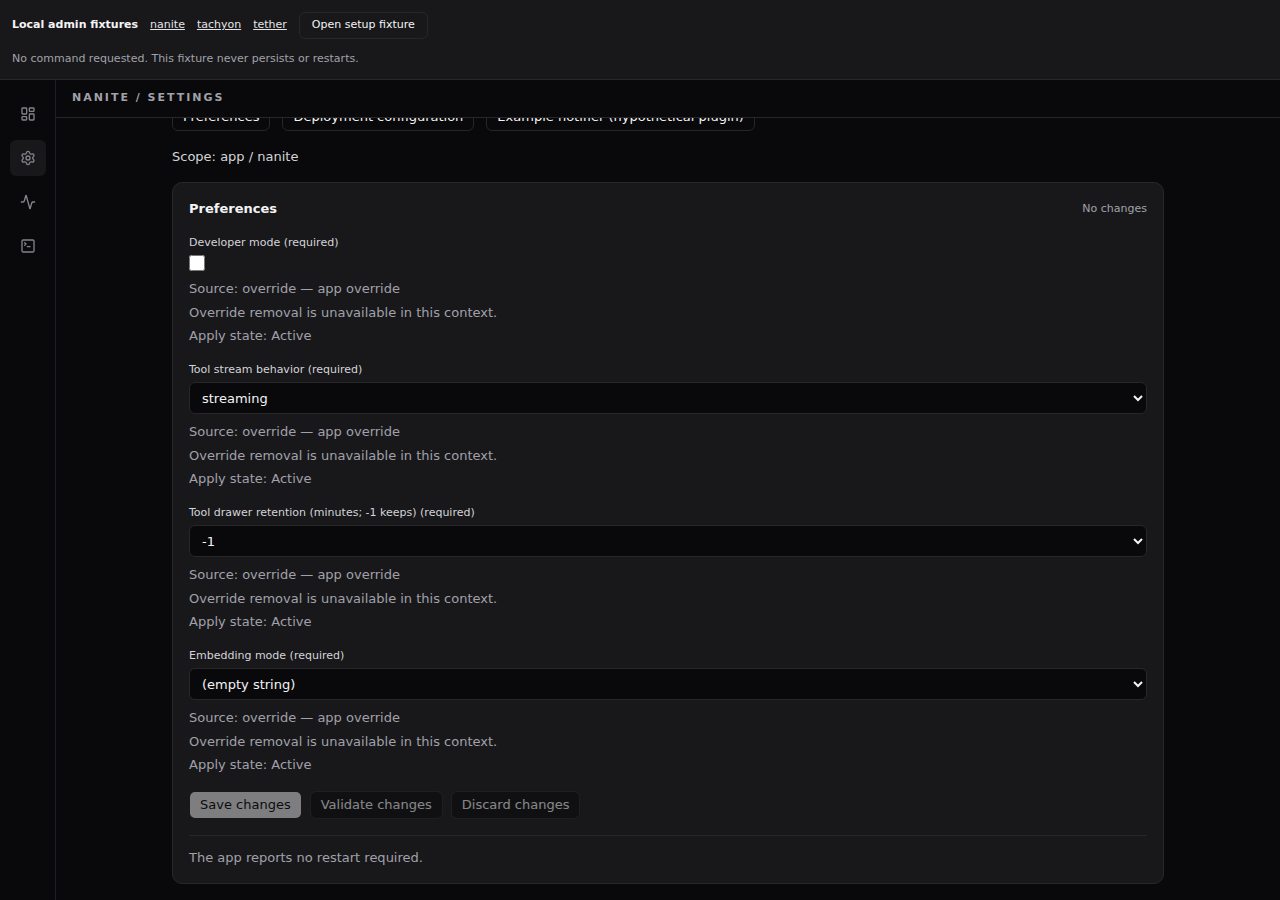
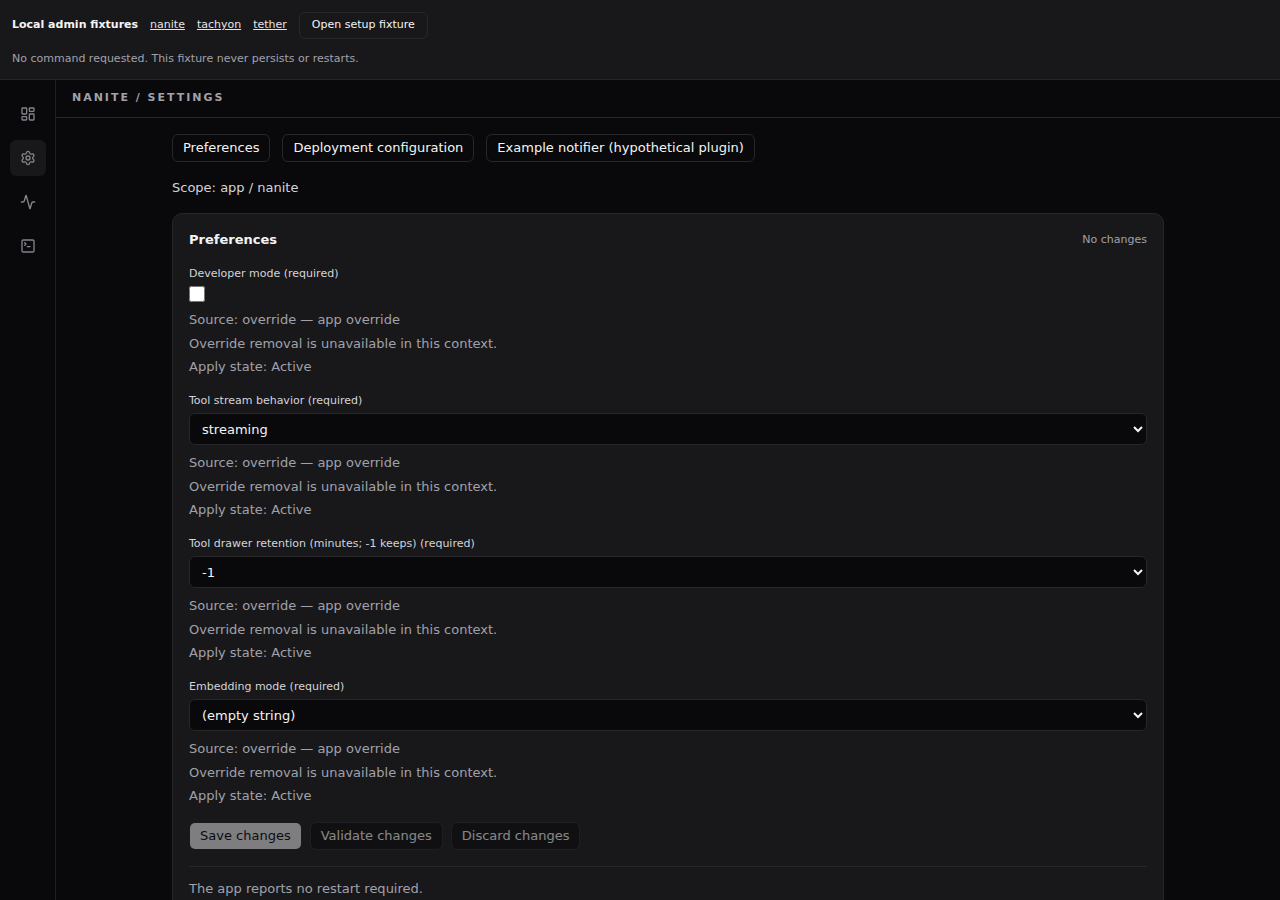
chore(kit-admin): align release ranges and verify prebuild typecheck

Changed region(s): [[0.125, 0.1244, 0.5938, 0.9956], [0.8438, 0.2178, 0.9062, 0.28], [0.375, 0.8711, 0.4375, 0.9333]]

diff --git a/packages/kit-admin/README.md b/packages/kit-admin/README.md
@@ -88,7 +88,7 @@ A host using Tailwind v4 imports the theme and each composition's class sources:
 
 Set the host's theme and document shell reset as usual. Style evidence uses
 `sysop-p4-white` and includes dashboard CSS. Internal ranges are components and
-dashboard `^0.3.0`, settings and observe `^0.1.0`, tokens `^0.2.0`; React 19,
+dashboard `^0.3.0`, settings and observe `^0.1.0`, tokens `^0.3.0`; React 19,
 Tailwind 4, Base UI and lucide use the workspace's existing peers.
 
 ## Local fixture review

diff --git a/packages/kit-admin/docs/evidence.md b/packages/kit-admin/docs/evidence.md
@@ -1,6 +1,6 @@
 # kit-admin fixture evidence — CW-20261001-0512
 
-Built against release main `bbd7ce5` (including radius correction `78199fd`).
+Built against aligned release main `d3e60f9` (including radius correction `78199fd`).
 This is local composition proof using authored example manifests and explicit
 fixture snapshots. It is not a live adapter, packed external-consumer, publishing
 or two-real-app proof. Approved spec text/examples are unchanged.
